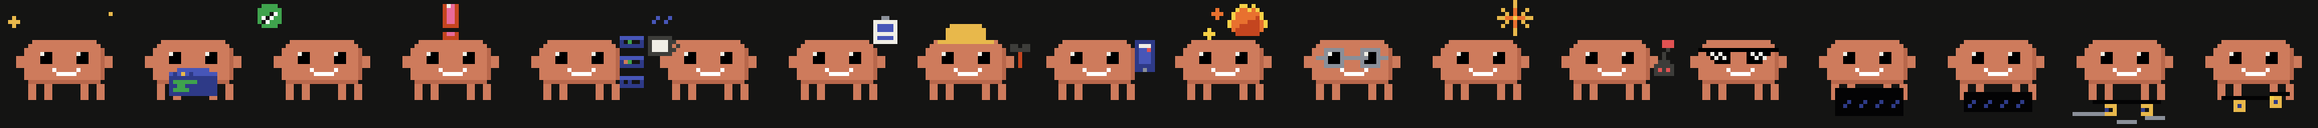
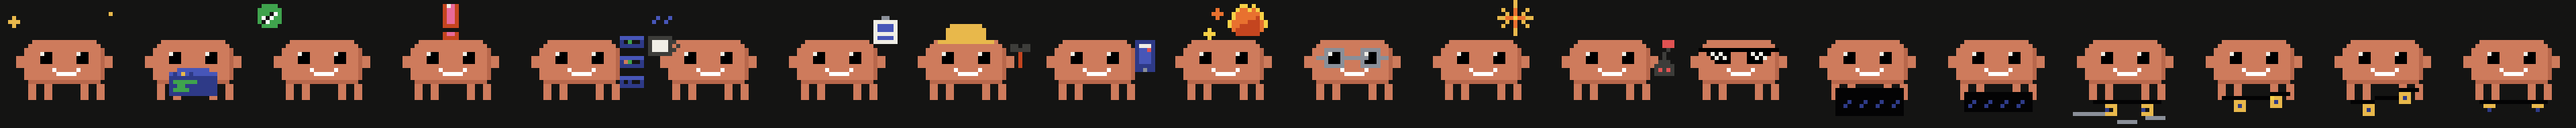
He learns the manual and the shove-it, and sometimes he just skates

diff --git a/Sources/ClaudePet/View/CrabView.swift b/Sources/ClaudePet/View/CrabView.swift
@@ -54,6 +54,7 @@ public enum CrabAnimator {
     /// | `79 &+ 23` | whether a silent working beat carries a fact |
     /// | `83 &+ 13` | the shell glint |
     /// | `89 &+ 11` | whether an idle flourish plays at all |
+    /// | `89 &+ 17` | the skate session — 89 shared by addend |
     ///
     /// Over other domains, where a collision with the above is impossible
     /// because the input is not a cycle: `37 &+ 11`, `91 &+ 17` and `53 &+ 29`
@@ -103,7 +104,9 @@ public enum CrabAnimator {
              // Appended, never inserted — renderers and the sampler iterate
              // `allCases` by position, and the live dice index into
              // `flourishDeck`, whose head IS `allCases`.
-             ollie
+             ollie,
+             // The skateboarder round: the balance ride and the flat spin.
+             manual, shoveIt
 
         /// The two skate tricks, so the line he shouts after one does not have
         /// to name them individually.
@@ -111,7 +114,8 @@ public enum CrabAnimator {
         /// which is why this is not called `skateTricks` — he shouts after all
         /// three, and "Do a Kickflip!" lands funnier over a roll-away than it
         /// does over an actual kickflip.
-        static let skateBeats: Set<Flourish> = [.kickflip, .varialFlip, .cruise, .ollie]
+        static let skateBeats: Set<Flourish> = [.kickflip, .varialFlip, .cruise, .ollie,
+                                                .manual, .shoveIt]
 
         var duration: Double {
             switch self {
@@ -126,6 +130,10 @@ public enum CrabAnimator {
             case .stretch: 1.6
             case .lookAround: 2.0
             case .scuttle: 1.2
+            // The manual is a HOLD — balance needs time on the clock the
+            // same way the ollie's hang does.
+            case .manual: 2.6
+            case .shoveIt: 2.2
             }
         }
     }
@@ -178,7 +186,7 @@ public enum CrabAnimator {
     /// flourishes (measured over the real dice, up from 40%), each trick at
     /// ~15%, cruise at ~7.5%, every other flourish at ~7.7%.
     static let flourishDeck: [Flourish] = Flourish.allCases
-        + [.kickflip, .varialFlip, .ollie]
+        + [.kickflip, .varialFlip, .ollie, .manual, .shoveIt]
 
     /// One skate beat in fifty rides the golden board. Salt 7 &+ 11 — the
     /// flourish family's multiplier, new addend, same cycle domain.
@@ -212,6 +220,42 @@ public enum CrabAnimator {
     /// disagree with the deck it is shouting about.
     static func skateLandingIsGolden(at landing: Double) -> Bool {
         skateBeatIsGolden(cycle: Int(floor((landing - 0.01) / flourishPeriod)))
+    }
+
+    /// 🛹 THE SKATE SESSION: a rare long spell where he really skates —
+    /// cruise, ollie, cruise, kickflip, roll-away, strung together. A
+    /// stargaze-class idle spell, not a flourish: the 7-second flourish
+    /// scheduler cannot hold a 14.5-second beat. Dice `89 &+ 17` (the
+    /// whether-a-cycle-fires family) over 180-second cycles, ~one idle
+    /// session in four and a half cycles; never cycle zero.
+    static let skateSessionBeats: [(Flourish, Double)] = [
+        (.cruise, 2.6), (.ollie, 3.2), (.cruise, 2.6), (.kickflip, 2.8), (.cruise, 2.6),
+    ]
+    static let skateSessionLength = 14.5    // the beats plus a settling beat
+
+    static func skateSession(idleT t: Double) -> Double? {
+        let cycle = Int(floor(t / 180))
+        guard cycle > 0, noise(cycle &* 89 &+ 17) < 0.22 else { return nil }
+        let since = t - Double(cycle) * 180
+        guard since >= 2, since < 2 + skateSessionLength else { return nil }
+        return since - 2
+    }
+
+    /// Maps a session instant onto the sub-trick that owns it. Each beat is
+    /// its trick's own full duration, so every sub-trick starts and ends at
+    /// its stance — the seams are the scheduler's own cuts, no worse.
+    static func applySkateSession(_ local: Double, t: Double, to pose: inout CrabPose) {
+        var cursor = 0.0
+        for (kind, seconds) in skateSessionBeats {
+            if local < cursor + seconds {
+                apply(kind, progress: (local - cursor) / seconds, t: t, to: &pose)
+                return
+            }
+            cursor += seconds
+        }
+        // The settling beat after the last roll-away: he just stands there,
+        // pleased with himself.
+        pose.mouth = .smile
     }
 
     static func flourish(at t: Double) -> (Flourish, Double)? {
@@ -411,6 +455,9 @@ public enum CrabAnimator {
         // The seasons: gated on a two-week wall-calendar window, the most
         // unreachable gate in the app — the exact case this menu exists for.
         case leaves, pumpkins, snowfall, fireworks
+        // The session: a 180-second cycle at 22% — you could wait a quarter
+        // hour, or you could pick this.
+        case skateSession
 
         /// How long this effect takes to let go, so a review that ends looks
         /// like the effect ending rather than like a number changing. Zero for
@@ -427,6 +474,7 @@ public enum CrabAnimator {
             case .idleHeart: 0      // same contract
             case .leaves, .snowfall, .pumpkins: 0   // weather stops falling
             case .fireworks: 0      // a burst in flight finishes
+            case .skateSession: 0   // the ride in progress finishes
             }
         }
 
@@ -647,6 +695,17 @@ public enum CrabAnimator {
             guard frame.t >= 0.2 else { return }
             pose.holidayGround = true
 
+        case .skateSession:
+            // The whole ride on a loop: a beat of rest, then the 14.5-second
+            // sequence. Rest FIRST — the frozen sentinel — and the `until`
+            // contract on release: a ride mid-trick finishes out.
+            let rideCycle = 1.0 + skateSessionLength
+            let rideStart = (frame.t / rideCycle).rounded(.down) * rideCycle
+            if let endedT = frame.endedT, rideStart > endedT { return }
+            let rideSince = frame.t - rideStart
+            guard rideSince >= 1.0 else { return }
+            applySkateSession(rideSince - 1.0, t: frame.t, to: &pose)
+
         case .fireworks:
             // A burst every 4s, rest first, deterministic from the preview's
             // own clock — the glint pattern. The cycle number colours it.
@@ -742,7 +801,19 @@ public enum CrabAnimator {
             // on a cycle unrelated to everything else so it feels incidental.
             if sin(t * 0.23) > 0.86 { pose.mouth = .flat }
 
-            if flourishes, let (kind, progress) = flourish(at: t) {
+            // 🛹 The session outranks single flourishes when its rare window
+            // opens (and it stands down for the telescope and the sun, whose
+            // spells outrank everything — the composed-moment rule).
+            let sessionLocal = flourishes
+                && stargaze(idleT: t, hourOfDay: hourOfDay) == nil
+                && sunPatch(idleT: t, hourOfDay: hourOfDay) == nil
+                ? skateSession(idleT: t) : nil
+            if let sessionLocal {
+                applySkateSession(sessionLocal, t: t, to: &pose)
+                // The session rides the same headwear dice as any skate beat —
+                // a long ride deserves the cap.
+                pose.headwear = skateHeadwear(cycle: Int(floor(t / 180)))
+            } else if flourishes, let (kind, progress) = flourish(at: t) {
                 apply(kind, progress: progress, t: t, to: &pose)
                 if Flourish.skateBeats.contains(kind) {
                     // 🛹✨ The jackpot ride. LIVE-only by placement: this
@@ -1743,6 +1814,53 @@ public enum CrabAnimator {
         case .lookAround:
             pose.gazeX = sin(t * 1.8) > 0 ? 1 : -1
             pose.gazeY = progress > 0.5 ? 1 : 0
+
+        case .manual:
+            // The balance ride: back wheels down, nose in the air, and HOLD.
+            // The board carries the pitch (its own envelope, eased at both
+            // ends of the ride); he carries the concentration — determined
+            // eyes, flat mouth, balance arms sawing in counterphase, one
+            // pixel of rise while the wheelie is properly up.
+            pose.prop = .skateboardManual
+            pose.propVisibility = 1
+            pose.propPhase = progress
+            let held = Ease.smoothstep(min(progress, 1 - progress) * 5)
+            if held > 0.5 {
+                pose.bob = -1
+                pose.eyes = .determined
+                pose.mouth = .flat
+                let saw = sin(t * 6)
+                pose.armLeft = 0.5 + 0.3 * saw
+                pose.armRight = 0.5 - 0.3 * saw
+                pose.gazeX = 1
+            }
+
+        case .shoveIt:
+            // The flat spin: he hops, the board does a half turn UNDERNEATH
+            // — yaw only, deck flat the whole way, which is exactly the
+            // motion the kickflip's own comment calls a shove-it.
+            pose.prop = .skateboardShoveIt
+            pose.propVisibility = 1
+            pose.propPhase = 0
+            if progress < 0.2 {
+                pose.squash = 1
+                pose.bob = 1
+            } else if progress < 0.75 {
+                let air = (progress - 0.2) / 0.55
+                pose.bob = -Int((sin(air * .pi) * 5).rounded())
+                pose.legAmplitude = 1.6
+                pose.legPhase = .pi / 2
+                pose.blink = 0
+                pose.propPhase = air
+                if air < 0.25 { pose.eyes = .squint }
+                pose.mouth = .open
+                pose.gazeY = 1                        // watching the spin
+            } else {
+                pose.squash = 1
+                pose.bob = 1
+                pose.mouth = .open
+                pose.dustBurst = (progress - 0.75) / 0.25
+            }
 
         case .scuttle:
             // A couple of steps one way, then back.

diff --git a/Sources/ClaudePet/View/CrabRig.swift b/Sources/ClaudePet/View/CrabRig.swift
@@ -89,11 +89,15 @@ public struct CrabPose: Sendable, Equatable {
         // kickflip's comment calling tilt "an impossible". For an ollie the
         // tilt IS the trick.
         case skateboardOllie
+        // Appended, the skateboarder round: the manual's held wheelie and
+        // the shove-it's flat spin — each its own geometry, like every
+        // board before them.
+        case skateboardManual, skateboardShoveIt
 
         var isWorn: Bool {
             switch self {
             case .hardHat, .phone, .fire, .glasses, .shades, .skateboard, .skateboardVarial,
-             .skateboardRoll, .skateboardOllie: true
+             .skateboardRoll, .skateboardOllie, .skateboardManual, .skateboardShoveIt: true
             default: false
             }
         }
@@ -1627,6 +1631,62 @@ public enum CrabRig {
             }
             if wheelShimmer(pose.propPhase) {
                 b.pixel(cx + 4, yNose + 1, .flameCore)
+            }
+
+        case .skateboardManual:
+            // The wheelie, held: tail on the ground, nose stepping up through
+            // an eased pitch, the back wheel planted and the front one riding
+            // the nose. The ground streaks underneath — the cruise's trick,
+            // borrowed: on a fixed camera the world moves, not the rider.
+            let p = min(1, max(0, pose.propPhase))
+            let pitch = Ease.smoothstep(min(p, 1 - p) * 5)
+            let rise = Int((3 * pitch).rounded())
+            let cx = 16 + dx, deckY = 25 + dy
+            let deckInk: PixelBuffer.Ink = pose.goldenBoard ? .yellow : .deck
+            let wheelInk: PixelBuffer.Ink = pose.goldenBoard ? .slate : .yellow
+            let yTail = deckY
+            let yMid = deckY - rise / 2
+            let yNose = deckY - rise
+            b.rect(cx - 8, yTail, 6, 1, deckInk)
+            b.rect(cx - 2, yMid, 6, 1, deckInk)
+            b.rect(cx + 4, yNose, 5, 1, deckInk)
+            if yTail - yMid > 1 { b.pixel(cx - 2, yMid + 1, deckInk) }
+            if yMid - yNose > 1 { b.pixel(cx + 4, yNose + 1, deckInk) }
+            for (hub, y) in [(cx - 5, yTail), (cx + 4, yNose)] {
+                b.rect(hub, y + 1, 3, 1, wheelInk)
+                b.pixel(hub, y + 2, wheelInk)
+                b.pixel(hub + 1, y + 2, .screenDark)
+                b.pixel(hub + 2, y + 2, wheelInk)
+                b.rect(hub, y + 3, 3, 1, wheelInk)
+            }
+            if wheelShimmer(pose.propPhase * 2.6) {
+                b.pixel(cx - 5, yTail + 1, .flameCore)
+            }
+            // Ground rush: three dashes streaming left under the wheels,
+            // stepped whole-pixel off the ride's own clock.
+            let rush = Int((p * 34).rounded())
+            for lane in 0..<3 {
+                let x = ((28 - rush + lane * 11) % 32 + 32) % 32
+                b.rect(x, 29, 3, 1, .shadow)
+            }
+
+        case .skateboardShoveIt:
+            // The flat spin: yaw only. The deck narrows toward edge-on and
+            // widens back out — the varial's width math with the roll struck
+            // out — while the wheels ride the shrinking ends and duck behind
+            // the deck at the pass-through.
+            let u = pose.propPhase.truncatingRemainder(dividingBy: 1)
+            let yaw = u * .pi
+            let cx = 16 + dx, deckY = 25 + dy
+            let half = max(2, Int((8 * abs(cos(yaw)) + 2.5 * abs(sin(yaw))).rounded()))
+            let deckInk: PixelBuffer.Ink = pose.goldenBoard ? .yellow : .deck
+            let wheelInk: PixelBuffer.Ink = pose.goldenBoard ? .slate : .yellow
+            b.rect(cx - half, deckY, half * 2 + 1, 1, deckInk)
+            if half >= 5 {
+                for hub in [cx - half + 1, cx + half - 3] {
+                    b.rect(hub, deckY + 1, 3, 1, wheelInk)
+                    b.pixel(hub + 1, deckY + 2, .screenDark)
+                }
             }
 
         case .skateboardRoll:

diff --git a/Tests/ClaudePetTests/PartyAndEggsTests.swift b/Tests/ClaudePetTests/PartyAndEggsTests.swift
@@ -222,6 +222,29 @@ struct SkyAndDeckTests {
         #expect(dressedGreen < green, "the beanie must stand down under a costume")
     }
 
+    /// The session: its beats are each trick's OWN duration (the seam
+    /// argument depends on it), its dice honour the sentinel, and its rate
+    /// sits where the registry says.
+    @Test("The skate session's beats are the tricks' own")
+    func skateSessionContract() {
+        for (kind, seconds) in CrabAnimator.skateSessionBeats {
+            #expect(seconds == kind.duration,
+                    "\(kind) beat is \(seconds), its duration is \(kind.duration)")
+        }
+        let total = CrabAnimator.skateSessionBeats.reduce(0.0) { $0 + $1.1 }
+        #expect(total <= CrabAnimator.skateSessionLength,
+                "the beats overflow the session window")
+        for step in 0..<90 {
+            #expect(CrabAnimator.skateSession(idleT: Double(step) * 2) == nil
+                    || Double(step) * 2 >= 180,
+                    "a session fired inside cycle zero")
+        }
+        var fired = 0
+        for cycle in 1...4000 where CrabAnimator.noise(cycle &* 89 &+ 17) < 0.22 { fired += 1 }
+        let rate = Double(fired) / 4000
+        #expect(rate > 0.19 && rate < 0.25, "session rate \(rate)")
+    }
+
     // MARK: - The weighted rotation
 
     /// The operator skates: skate beats now take a bit over half the fired

diff --git a/Tests/ClaudePetTests/PersonalityTests.swift b/Tests/ClaudePetTests/PersonalityTests.swift
@@ -123,9 +123,9 @@ struct PropInventoryTests {
     @Test("The prop strip publishes every prop")
     func propCountIsPinned() {
         // `.none` is a case but not a prop; the strip draws the rest.
-        // 18 since the ollie board joined (17 was pre-ollie).
+        // 20 since the manual and shove-it boards joined (18 before, 17 pre-ollie).
         let drawn = CrabPose.Prop.allCases.filter { $0 != .none }
-        #expect(drawn.count == 18,
+        #expect(drawn.count == 20,
                 "the prop count moved — docs/media/props.png needs re-rendering")
         #expect(!CrabPose.Prop.allCases.contains { $0.rawValue == "zzz" },
                 "the sleeping z's were removed; the enum should not carry them")

diff --git a/Sources/ClaudePet/App/AppDelegate.swift b/Sources/ClaudePet/App/AppDelegate.swift
@@ -376,6 +376,7 @@ final class AppDelegate: NSObject, NSApplicationDelegate, NSPopoverDelegate {
         .pumpkins: "🎃 Floor pumpkins",
         .snowfall: "❄ Snowfall",
         .fireworks: "🎆 Fireworks",
+        .skateSession: "🛹 Skate session",
     ]
 
     /// Replays the first-run wave. `force` so it plays every time, and so it

diff --git a/README.md b/README.md
@@ -47,7 +47,7 @@ means an `ExitPlanMode` is sitting there waiting for your answer.
 **Thinking** just shows three dots. There's no honest label for that moment,
 so he doesn't pretend to have one.
 
-## ✨ Ten things he does when nobody asked
+## ✨ Twelve things he does when nobody asked
 
 <table>
 <tr>
@@ -63,6 +63,13 @@ so he doesn't pretend to have one.
   <td align="center"><img src="docs/media/flourish-varialFlip.gif" width="110"><br><strong>Varial flip</strong></td>
   <td align="center"><img src="docs/media/flourish-ollie.gif" width="110"><br><strong>Ollie</strong></td>
   <td align="center"><img src="docs/media/flourish-cruise.gif" width="110"><br><strong>Cruise</strong></td>
+</tr>
+<tr>
+  <td align="center"><img src="docs/media/flourish-manual.gif" width="110"><br><strong>Manual</strong></td>
+  <td align="center"><img src="docs/media/flourish-shoveIt.gif" width="110"><br><strong>Shove-it</strong></td>
+  <td align="center"></td>
+  <td align="center"></td>
+  <td align="center"></td>
 </tr>
 </table>
 
@@ -213,7 +220,7 @@ no dependencies, no package manager.
 ---
 
 <div align="center">
-  <img src="docs/media/props.png" width="100%" alt="All eighteen props in one strip: sparkles, terminal, check, bang, servers, mug, plan, hard hat, phone, fire, glasses, star, joystick, shades, and four skateboards">
+  <img src="docs/media/props.png" width="100%" alt="All twenty props in one strip: sparkles, terminal, check, bang, servers, mug, plan, hard hat, phone, fire, glasses, star, joystick, shades, and six skateboards">
   <p><em>Every prop, from the same rig — no sprite sheet anywhere.</em></p>
   <p>Unofficial, and not affiliated with or endorsed by Anthropic.<br>
   MIT — see <a href="LICENSE">LICENSE</a>; trademark note in <a href="NOTICE.md">NOTICE.md</a>.</p>

diff --git a/docs/the-art.md b/docs/the-art.md
@@ -8,7 +8,7 @@ new pose is a few numbers instead of a new asset. The app icon renders from
 the same rig, so the two can never drift apart.
 
 <div align="center">
-  <img src="media/props.png" width="768" alt="All eighteen props in one strip: sparkles, terminal, check, bang, servers, mug, plan, hard hat, phone, fire, glasses, star, joystick, shades, and four skateboards">
+  <img src="media/props.png" width="768" alt="All twenty props in one strip: sparkles, terminal, check, bang, servers, mug, plan, hard hat, phone, fire, glasses, star, joystick, shades, and six skateboards">
 </div>
 
 <p align="center"><em>Every prop, from the same rig. No sprite sheet anywhere.</em></p>
